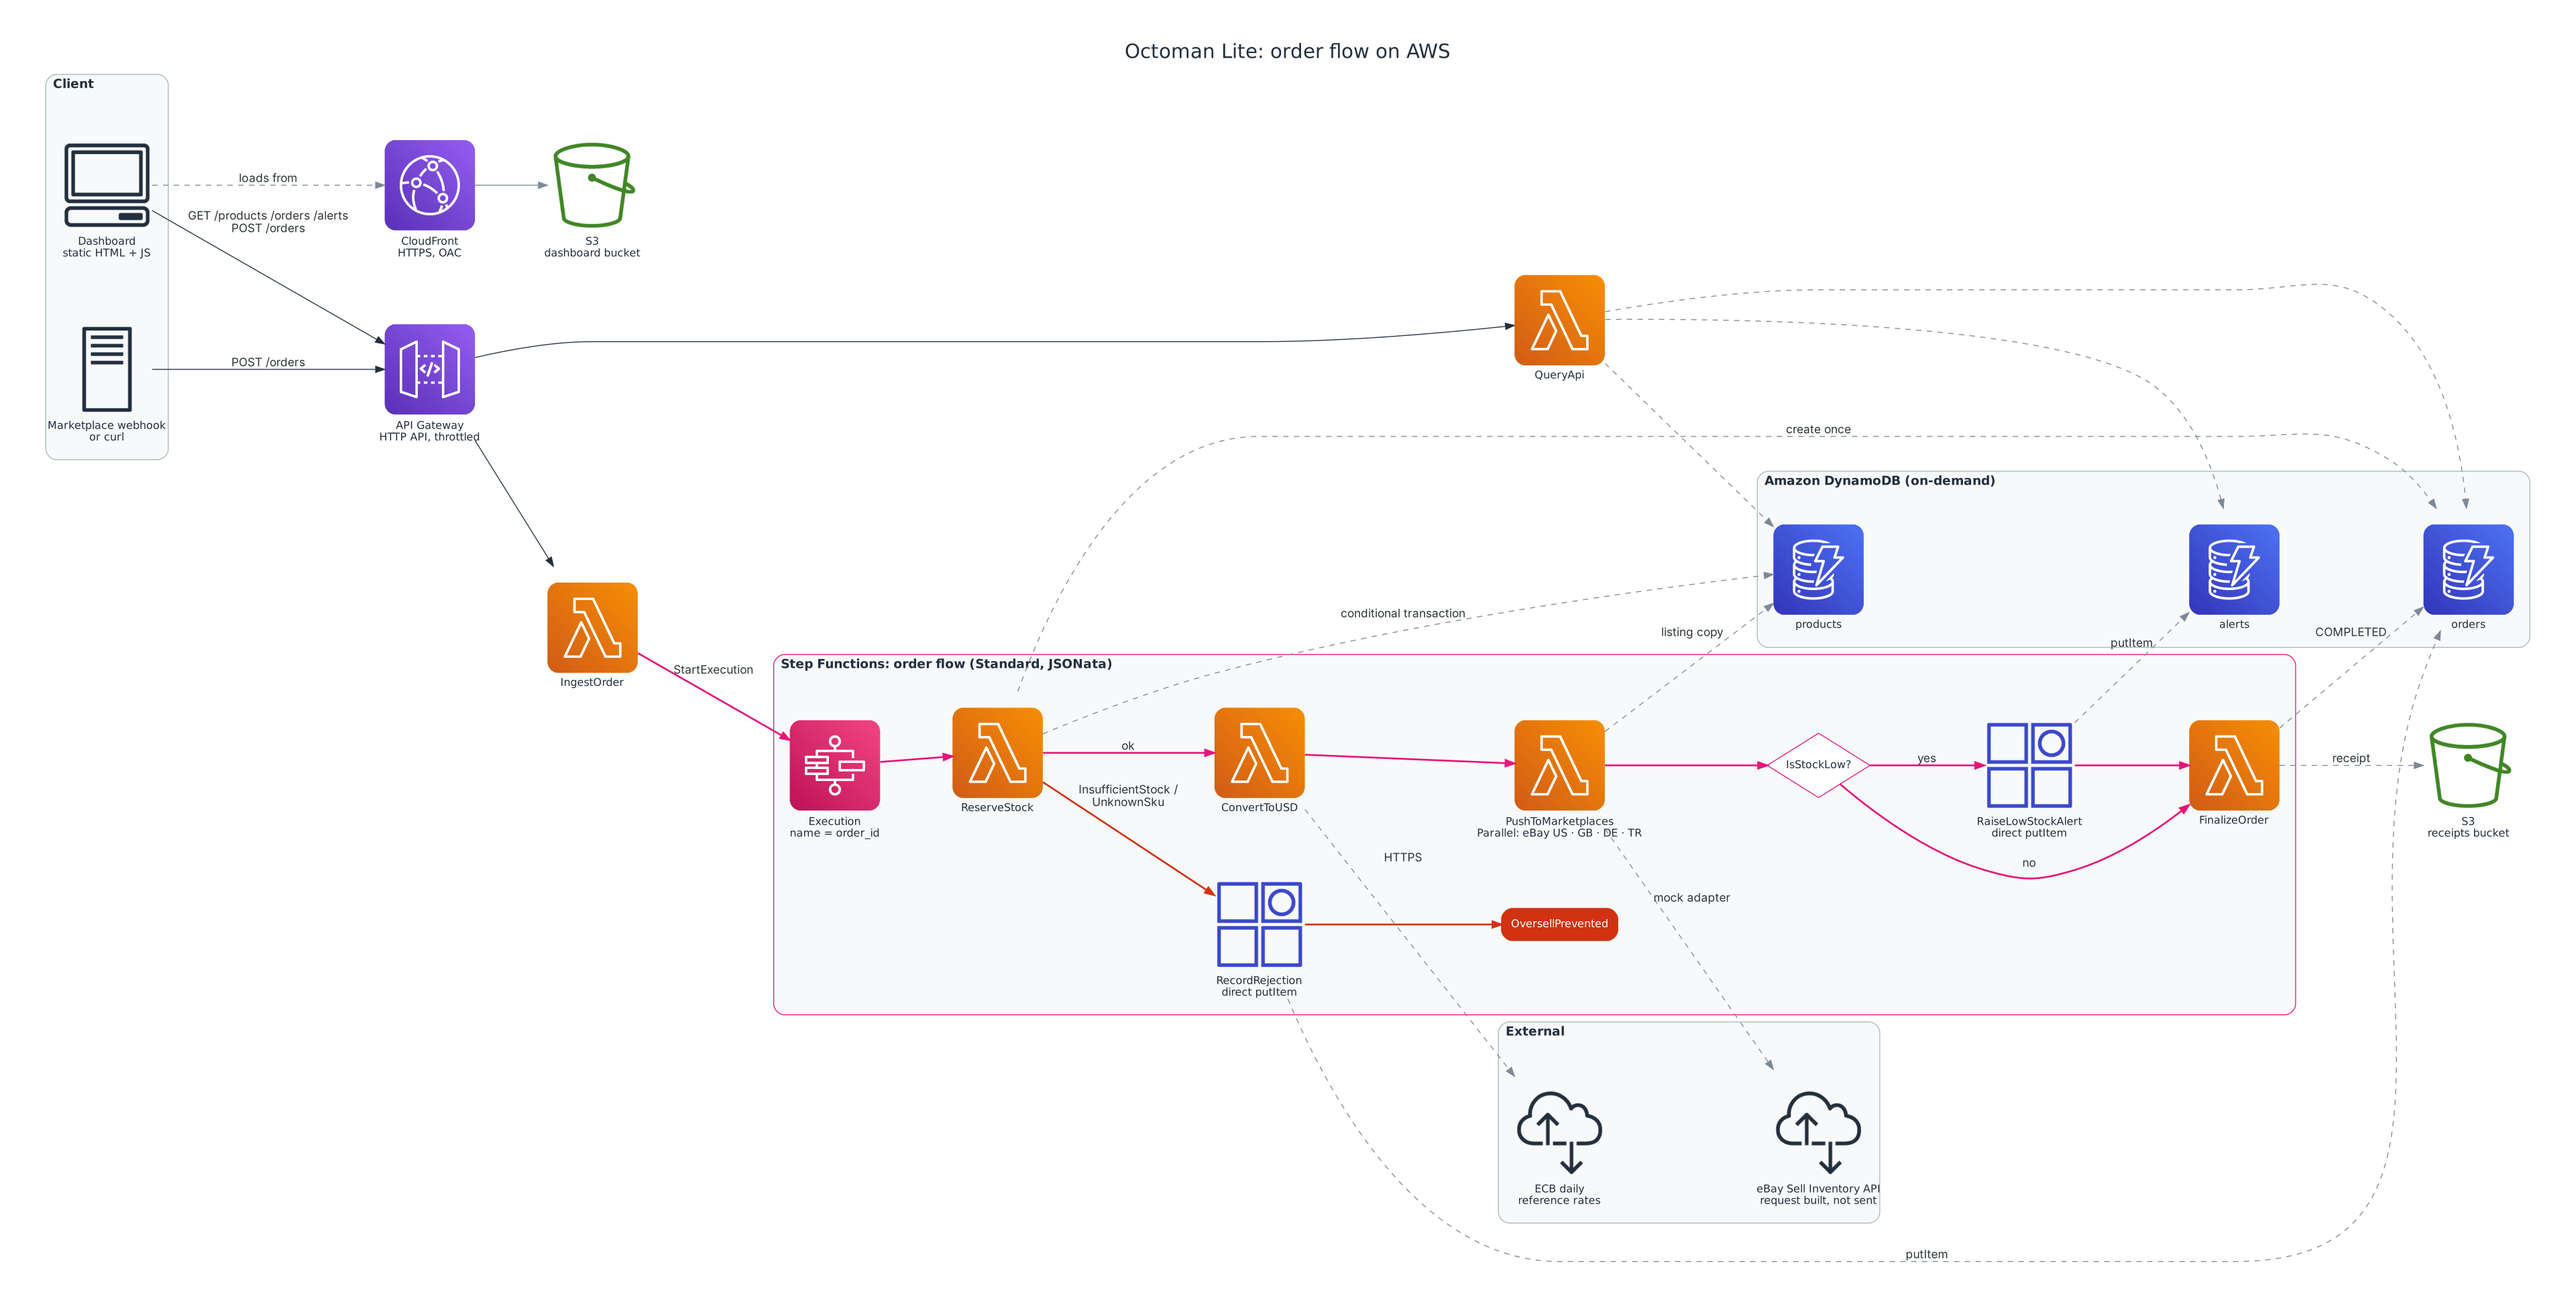
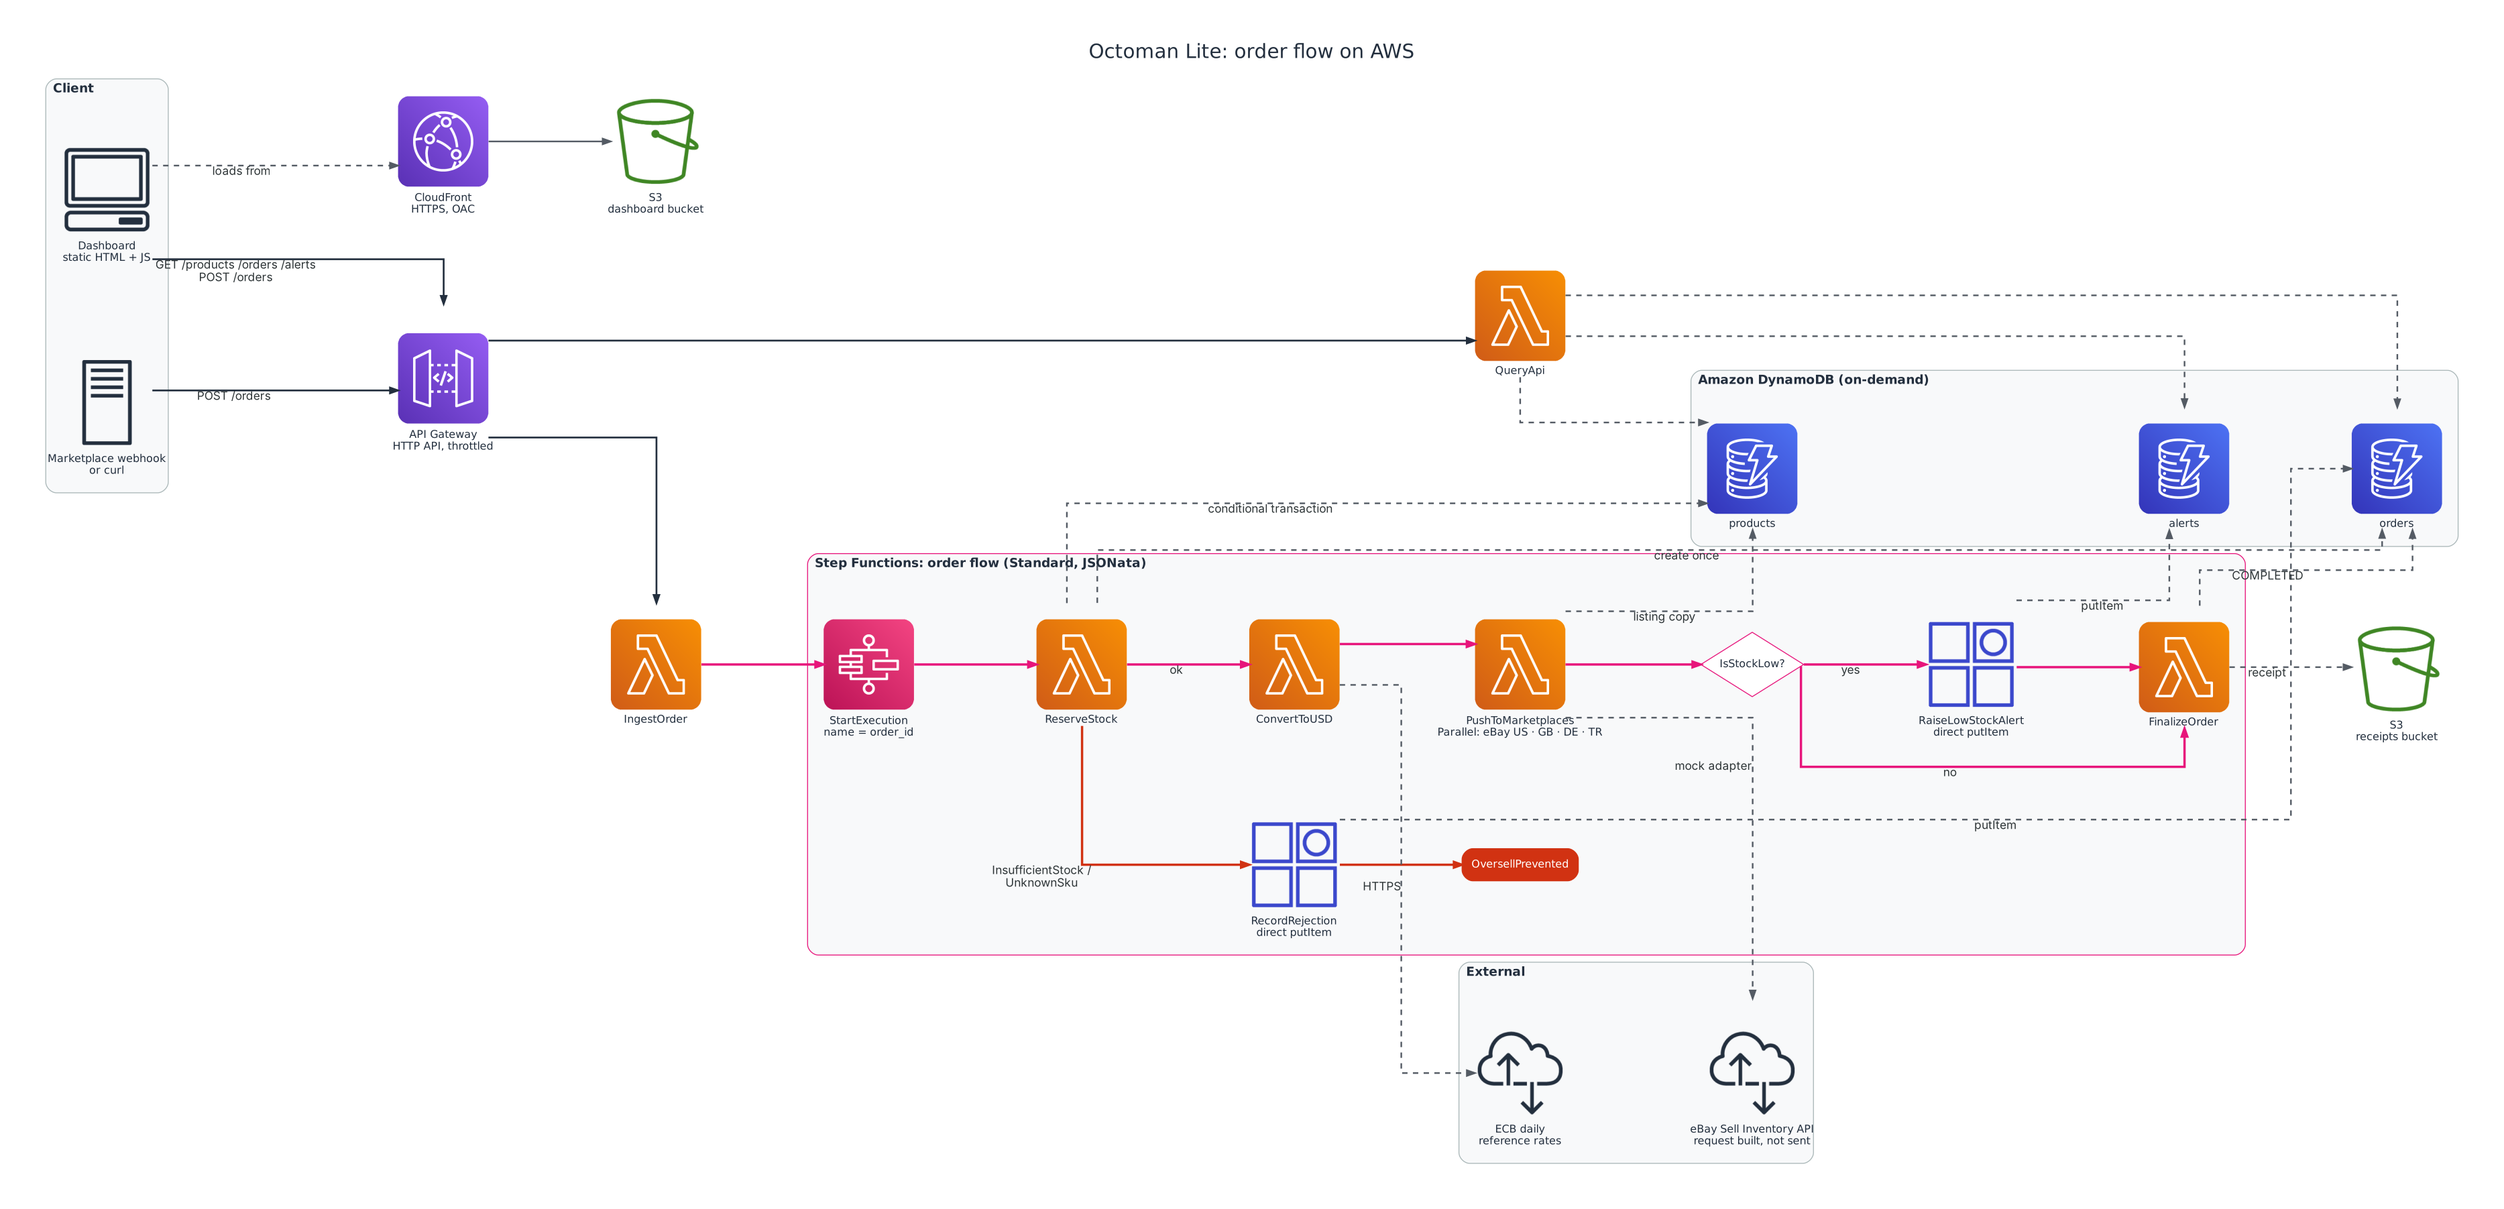
Architecture diagram: orthogonal grid layout, bolder lines
Claude-Session: https://claude.ai/code/session_01VXDFK5uEzAqpmNywfDEyn2

diff --git a/docs/architecture.py b/docs/architecture.py
@@ -20,7 +20,7 @@ OUT = Path(__file__).with_name("architecture")
 
 BG = "#ffffff"
 FG = "#232f3e"
-MUTED = "#7d8998"
+MUTED = "#545b64"
 ACCENT = "#e7157b"
 
 graph_attr = {
@@ -29,14 +29,22 @@ graph_attr = {
     "fontname": "Helvetica",
     "fontsize": "22",
     "pad": "0.6",
-    "nodesep": "0.55",
-    "ranksep": "1.1",
-    "splines": "spline",
+    "nodesep": "1.0",
+    "ranksep": "1.9",
+    "splines": "ortho",
+    "forcelabels": "true",
     "newrank": "true",
     "labelloc": "t",
 }
 node_attr = {"fontcolor": FG, "fontname": "Helvetica", "fontsize": "12"}
-edge_attr = {"color": MUTED, "fontcolor": FG, "fontname": "Helvetica", "fontsize": "10"}
+edge_attr = {
+    "color": MUTED,
+    "fontcolor": FG,
+    "fontname": "Helvetica-Bold",
+    "fontsize": "11",
+    "penwidth": "1.8",
+    "arrowsize": "0.9",
+}
 
 
 def cluster(label, color="#aab7b8", fill="#f8f9fa"):
@@ -54,16 +62,21 @@ def cluster(label, color="#aab7b8", fill="#f8f9fa"):
     )
 
 
-def call(label=""):
-    return Edge(label=label, color=FG, style="solid")
+# Orthogonal routing ignores ordinary edge labels, so labels go in xlabel.
+def call(label="", **attrs):
+    return Edge(xlabel=label, color=FG, style="solid", penwidth="2", **attrs)
 
 
-def data(label=""):
-    return Edge(label=label, color=MUTED, style="dashed")
+def data(label="", **attrs):
+    return Edge(xlabel=label, color=MUTED, style="dashed", penwidth="1.8", **attrs)
 
 
 def flow(label=""):
-    return Edge(label=label, color=ACCENT, style="bold")
+    return Edge(xlabel=label, color=ACCENT, style="solid", penwidth="2.6")
+
+
+def fail(label=""):
+    return Edge(xlabel=label, color="#d13212", style="solid", penwidth="2.6")
 
 
 with Diagram(
@@ -84,12 +97,12 @@ with Diagram(
     dash_bucket = S3Bucket("S3\ndashboard bucket")
 
     api = APIGateway("API Gateway\nHTTP API, throttled")
-    ingest = Lambda("IngestOrder")
+    ingest = Lambda("IngestOrder", group="main")
     query = Lambda("QueryApi")
 
     with cluster("Step Functions: order flow (Standard, JSONata)", color=ACCENT):
-        sfn = StepFunctions("Execution\nname = order_id")
-        reserve = Lambda("ReserveStock")
+        sfn = StepFunctions("StartExecution\nname = order_id", group="main")
+        reserve = Lambda("ReserveStock", group="main")
         reject = DynamodbItem("RecordRejection\ndirect putItem")
         oversell = Node(
             "OversellPrevented",
@@ -102,8 +115,8 @@ with Diagram(
             height="0.5",
             labelloc="c",
         )
-        fx = Lambda("ConvertToUSD")
-        push = Lambda("PushToMarketplaces\nParallel: eBay US · GB · DE · TR")
+        fx = Lambda("ConvertToUSD", group="main")
+        push = Lambda("PushToMarketplaces\nParallel: eBay US · GB · DE · TR", group="main")
         is_low = Node(
             "IsStockLow?",
             shape="diamond",
@@ -113,10 +126,11 @@ with Diagram(
             fontcolor=FG,
             width="1.6",
             height="1.0",
+            group="main",
             labelloc="c",
         )
-        alert = DynamodbItem("RaiseLowStockAlert\ndirect putItem")
-        finalize = Lambda("FinalizeOrder")
+        alert = DynamodbItem("RaiseLowStockAlert\ndirect putItem", group="main")
+        finalize = Lambda("FinalizeOrder", group="main")
 
     with cluster("Amazon DynamoDB (on-demand)"):
         products = Dynamodb("products")
@@ -130,18 +144,18 @@ with Diagram(
         ecb = InternetAlt1("ECB daily\nreference rates")
 
     # Client traffic
-    dashboard >> data("loads from") >> cdn >> dash_bucket
-    dashboard >> call("GET /products /orders /alerts\nPOST /orders") >> api
-    webhook >> call("POST /orders") >> api
+    dashboard >> data("loads from", minlen="2") >> cdn >> dash_bucket
+    dashboard >> call("GET /products /orders /alerts\nPOST /orders", minlen="2") >> api
+    webhook >> call("POST /orders", minlen="2") >> api
     api >> call() >> ingest
     api >> call() >> query
-    ingest >> flow("StartExecution") >> sfn
+    ingest >> flow() >> sfn
 
     # State machine
     sfn >> flow() >> reserve
     reserve >> flow("ok") >> fx
-    reserve >> Edge(label="InsufficientStock /\nUnknownSku", color="#d13212", style="bold") >> reject
-    reject >> Edge(color="#d13212", style="bold") >> oversell
+    reserve >> fail("InsufficientStock /\nUnknownSku") >> reject
+    reject >> fail() >> oversell
     fx >> flow() >> push >> flow() >> is_low
     is_low >> flow("yes") >> alert >> flow() >> finalize
     is_low >> flow("no") >> finalize
